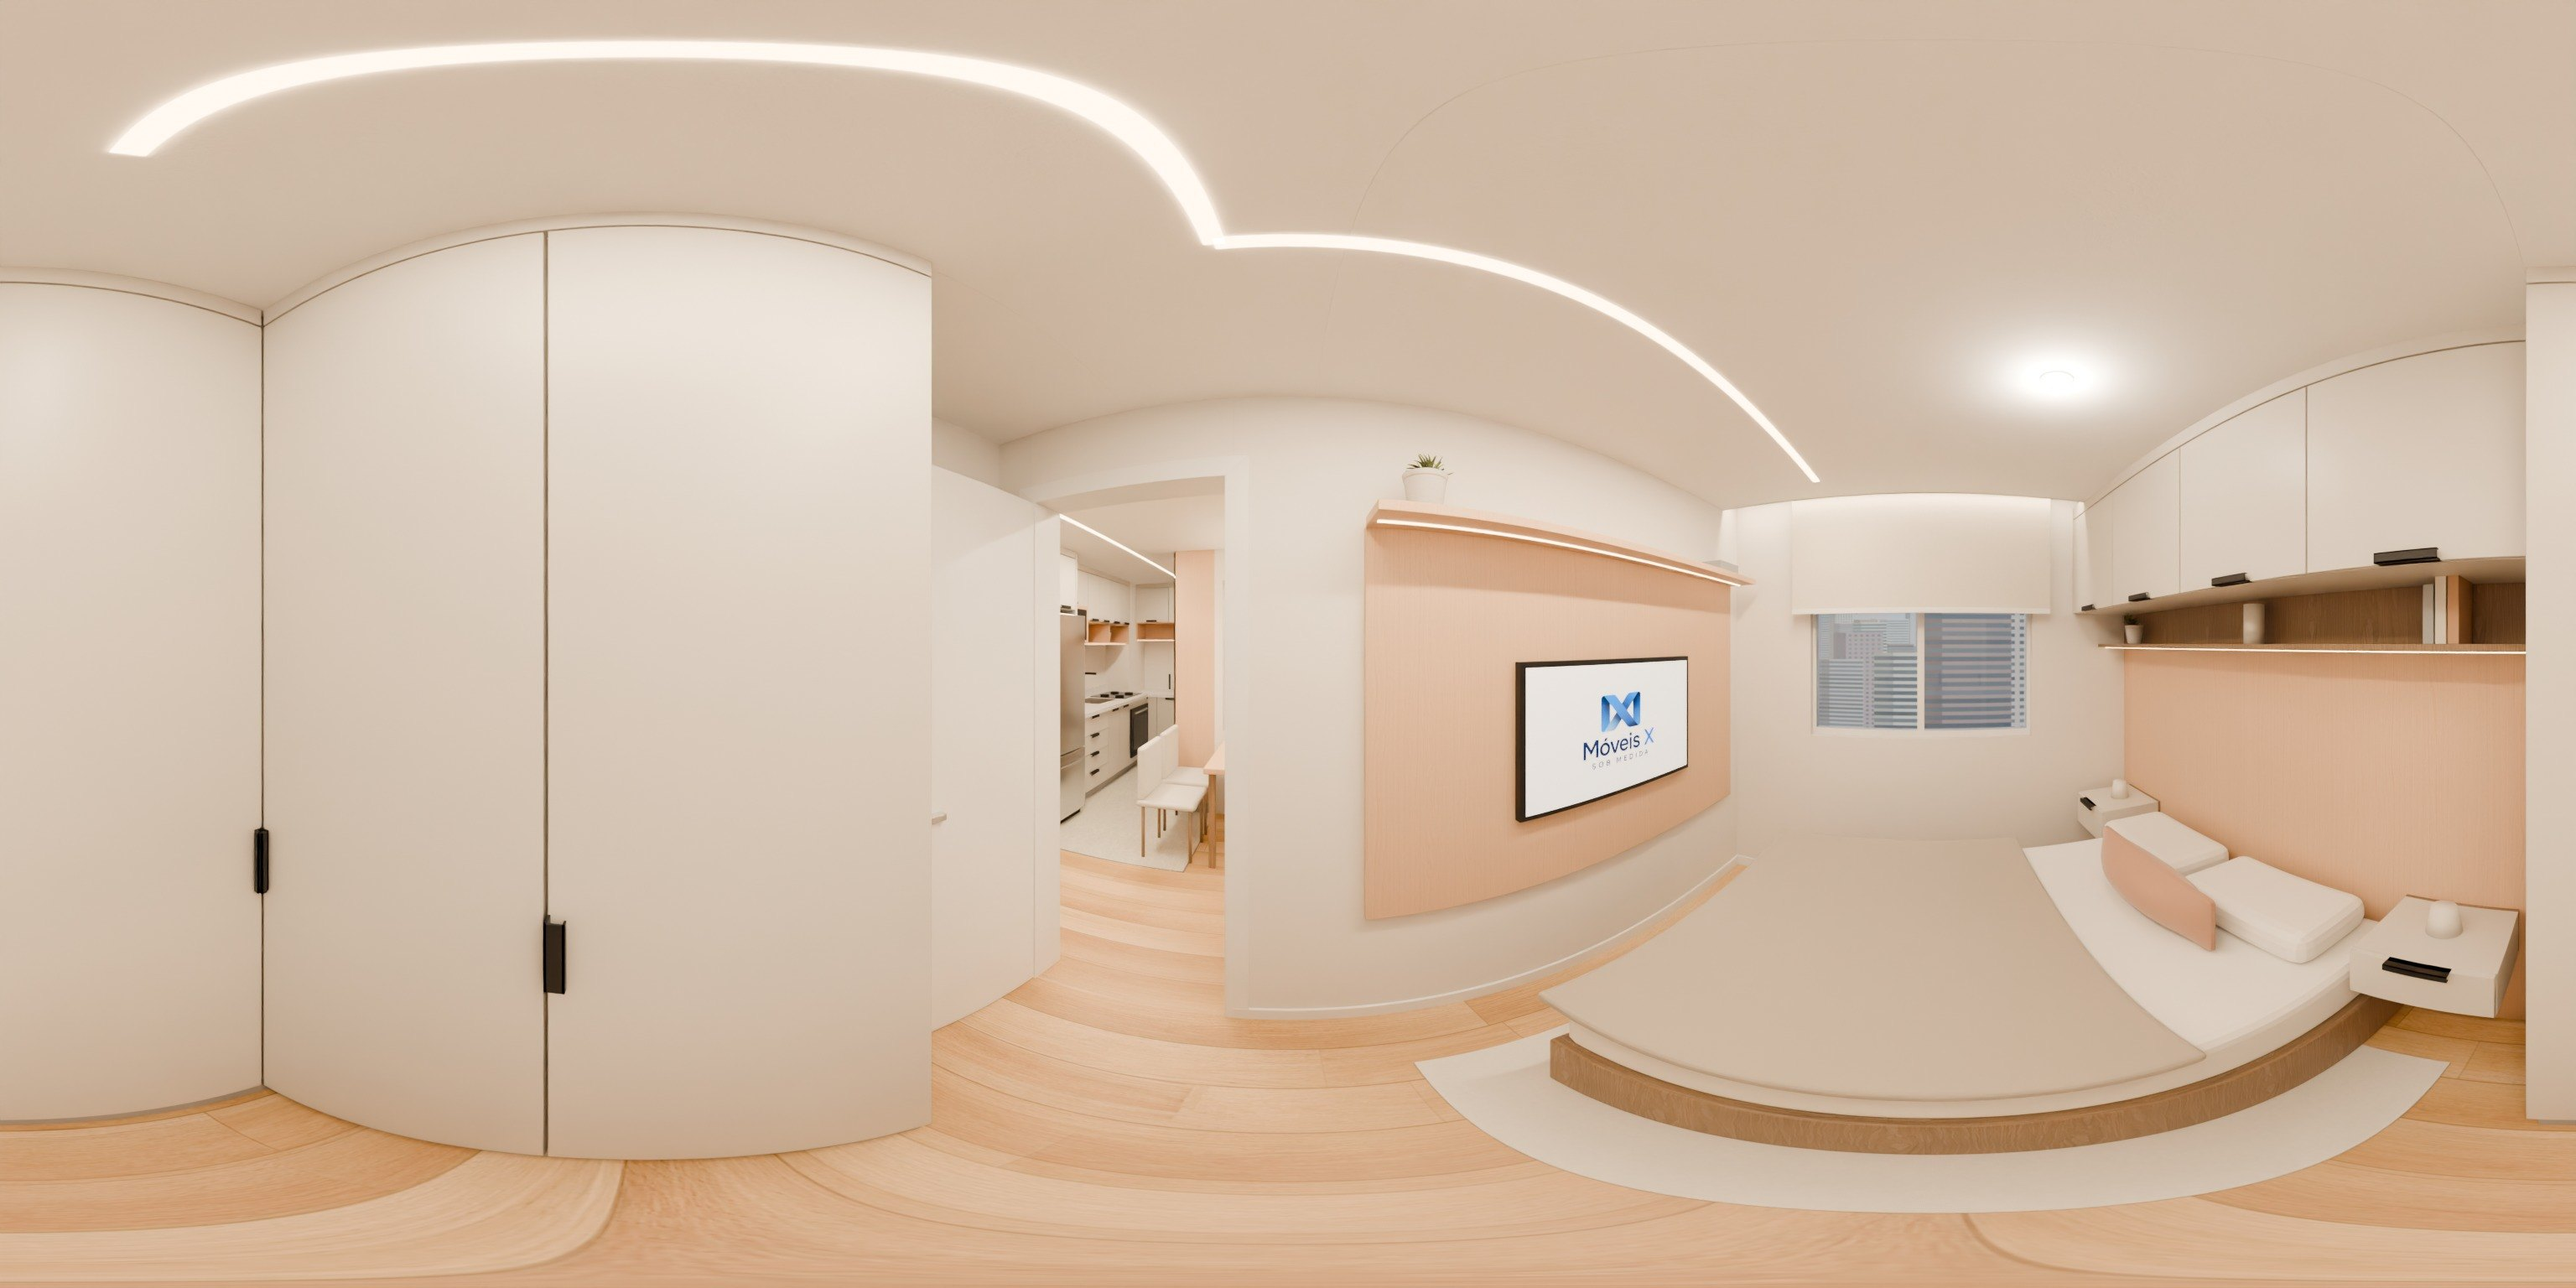
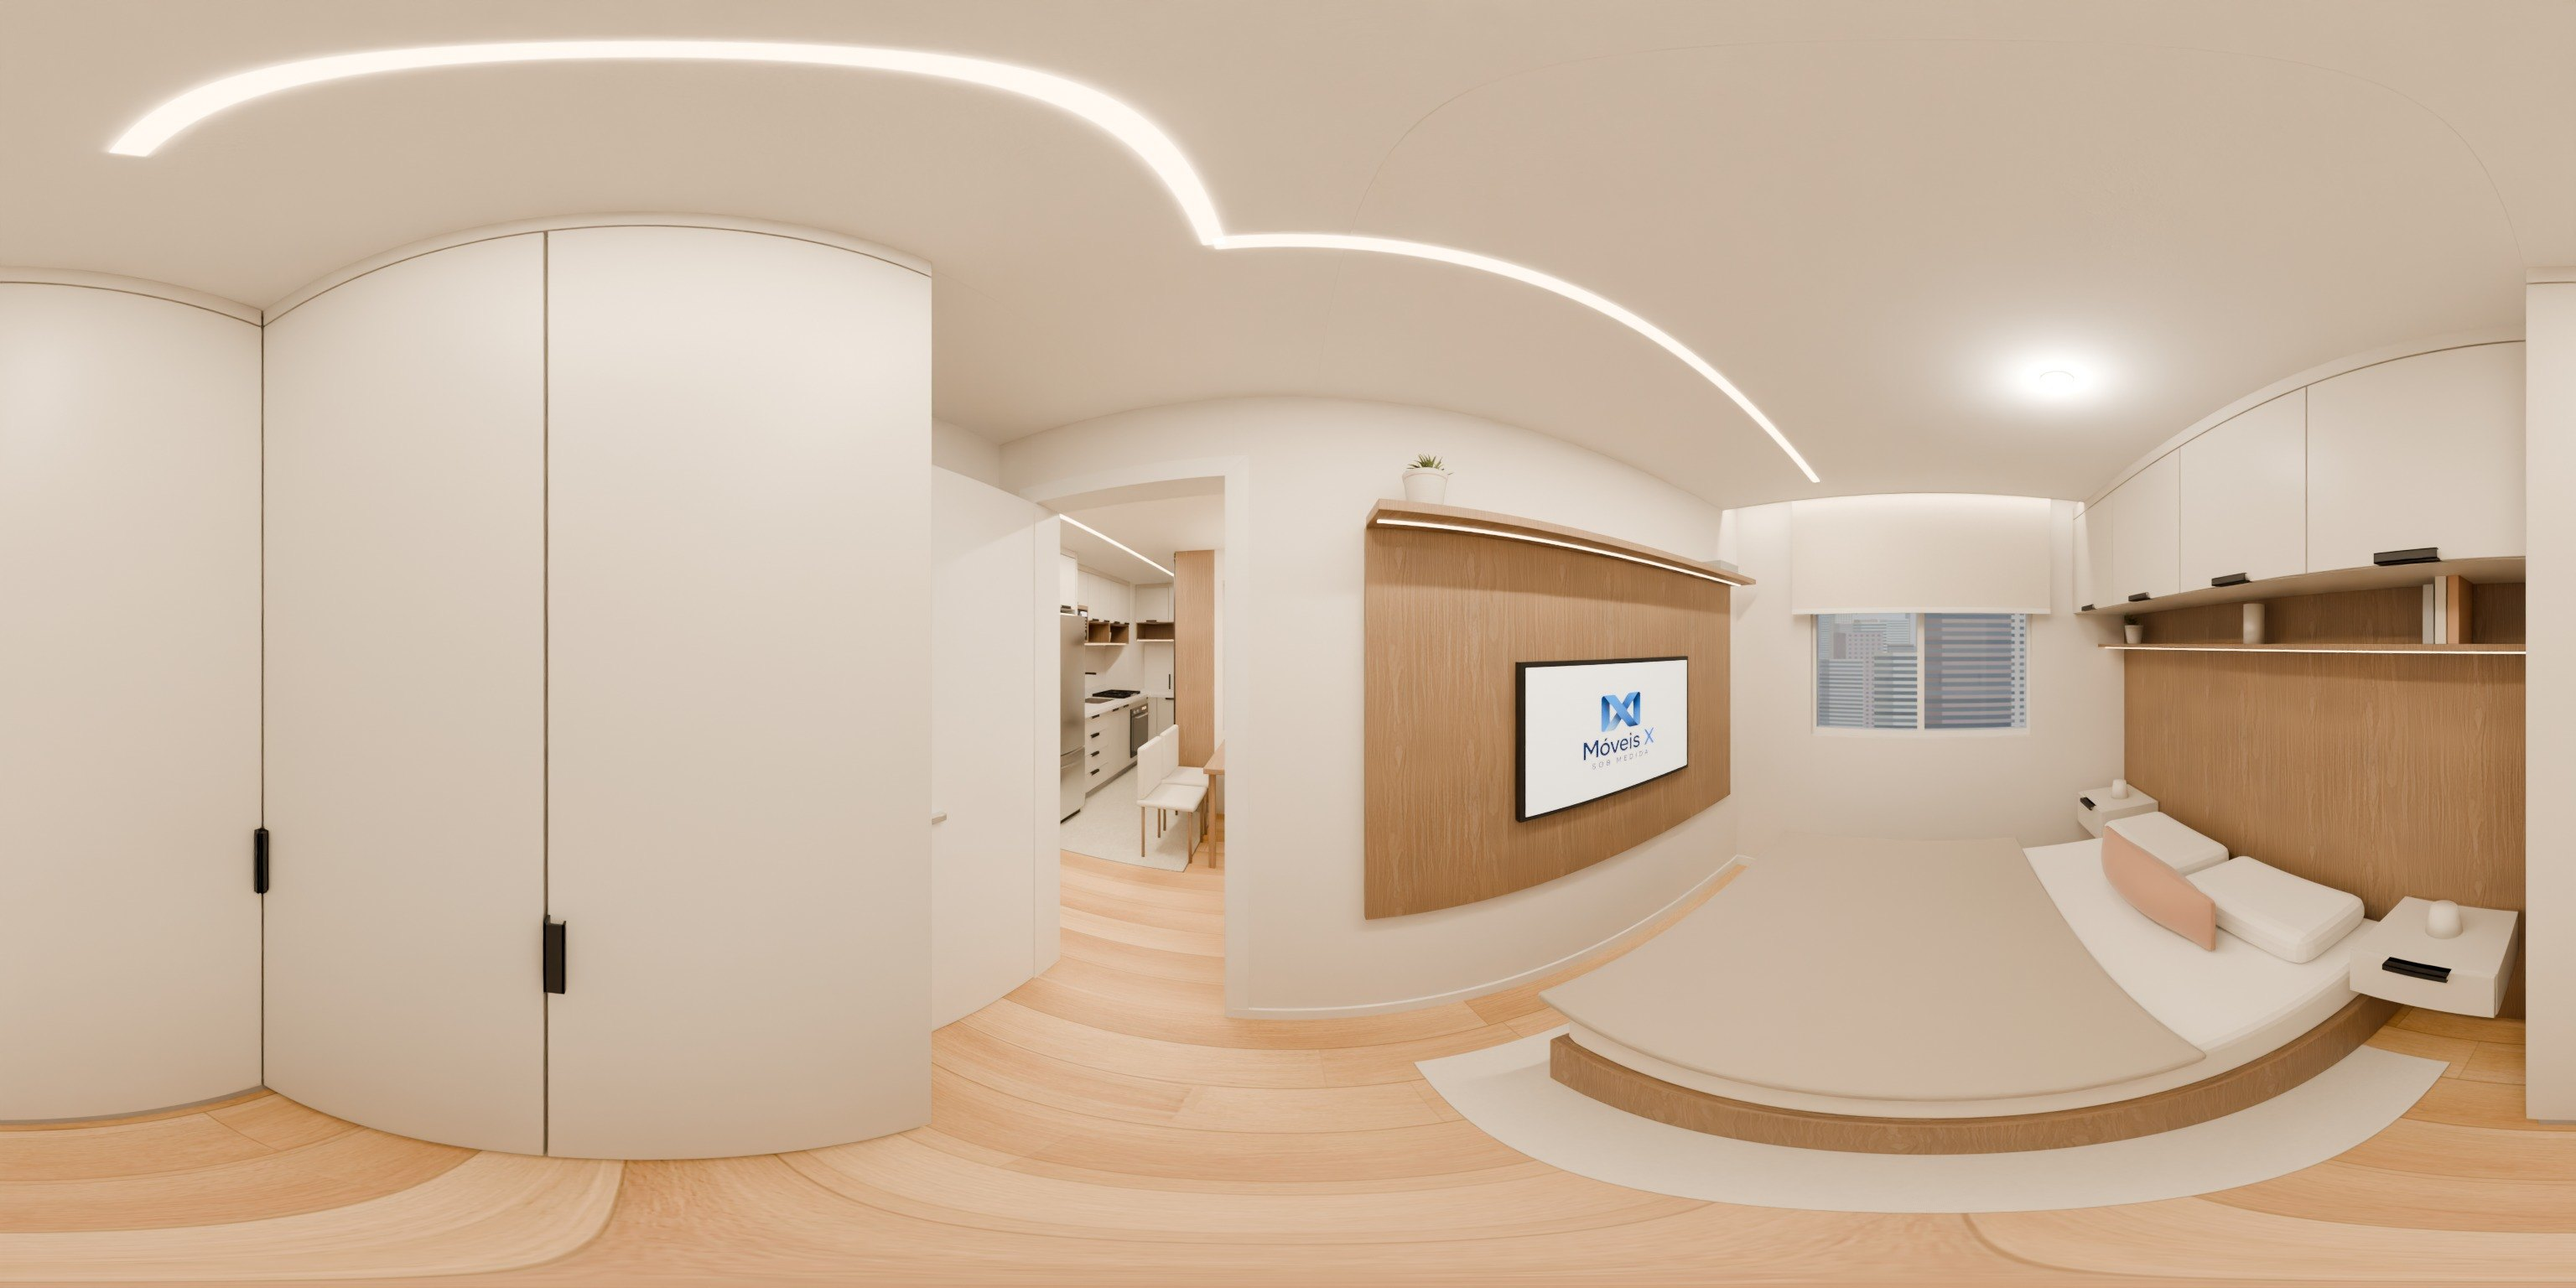
360: novas fotos com carvalho, nicho, cristaleira, cadeira, teclado e eletros atualizados
Claude-Session: https://claude.ai/code/session_01TCwC85nDjNHJiKaGTNL9QG

Changed region(s): [[0.8125, 0.5, 1.0, 0.8125], [0.5312, 0.375, 0.6875, 0.7188], [0.4062, 0.4062, 0.5, 0.5938]]

diff --git a/360/index.html b/360/index.html
@@ -48,11 +48,11 @@ nav button:focus-visible{outline:2px solid var(--brand);outline-offset:2px}
 <script>
 // posição de cada foto 360 na planta (m) e portas para onde as setas apontam
 const ROOMS=[
- {name:"Sala",img:"sala.jpg?v=4",p:[3.55,-3.3],go:[["Cozinha",1,[4.1,-1.7]],["Dormitório 02",3,[4.74,-3.04]],["Dormitório 01",2,[2.42,-1.9]],["Banheiro",4,[2.6,-0.75]]]},
- {name:"Cozinha",img:"cozinha.jpg?v=4",p:[4.3,-1.05],go:[["Sala",0,[3.6,-3.0]],["Banheiro",4,[2.6,-0.75]]]},
- {name:"Dormitório 01",img:"dormitorio_01.jpg?v=4",p:[1.2,-2.4],go:[["Sala",0,[2.42,-1.9]]]},
- {name:"Dormitório 02",img:"dormitorio_02.jpg?v=4",p:[5.7,-3.1],go:[["Sala",0,[4.74,-3.04]]]},
- {name:"Banheiro",img:"banheiro.jpg?v=4",p:[1.75,-0.75],look:[0.45,-0.65],go:[["Cozinha",1,[2.6,-0.75]]]}];
+ {name:"Sala",img:"sala.jpg?v=5",p:[3.55,-3.3],go:[["Cozinha",1,[4.1,-1.7]],["Dormitório 02",3,[4.74,-3.04]],["Dormitório 01",2,[2.42,-1.9]],["Banheiro",4,[2.6,-0.75]]]},
+ {name:"Cozinha",img:"cozinha.jpg?v=5",p:[4.3,-1.05],go:[["Sala",0,[3.6,-3.0]],["Banheiro",4,[2.6,-0.75]]]},
+ {name:"Dormitório 01",img:"dormitorio_01.jpg?v=5",p:[1.2,-2.4],go:[["Sala",0,[2.42,-1.9]]]},
+ {name:"Dormitório 02",img:"dormitorio_02.jpg?v=5",p:[5.7,-3.1],go:[["Sala",0,[4.74,-3.04]]]},
+ {name:"Banheiro",img:"banheiro.jpg?v=5",p:[1.75,-0.75],look:[0.45,-0.65],go:[["Cozinha",1,[2.6,-0.75]]]}];
 const view=document.getElementById('view'),hint=document.getElementById('hint'),nav=document.getElementById('rooms');
 const renderer=new THREE.WebGLRenderer({antialias:true});renderer.setPixelRatio(Math.min(devicePixelRatio,2));
 view.prepend(renderer.domElement);renderer.outputEncoding=THREE.sRGBEncoding;

diff --git a/index.html b/index.html
@@ -398,7 +398,7 @@ html.m .v360 small{font-size:12px}
     <h1>Apartamento<br><em>Phelipe</em></h1>
     <div class="rule"></div>
     <p>NOW Residence · Carapicuíba · SP</p>
-    <a class="v360" href="360/?v=5"><i>360°</i><span>Entrar no apartamento<small>Visite cada ambiente por dentro</small></span></a>
+    <a class="v360" href="360/?v=6"><i>360°</i><span>Entrar no apartamento<small>Visite cada ambiente por dentro</small></span></a>
   </div>
   <div class="cv-meta"><div><b>Cliente</b>Phelipe</div><div><b>Projeto</b>Daniel · Móveis X</div><div><b>Data</b>Outubro 2026</div></div>
 </div></section><section class="page concept">
@@ -971,6 +971,6 @@ html.m .v360 small{font-size:12px}
 <path d="M240 210 C262 188 284 178 297 176" fill="none" stroke="#ffffff" stroke-width="0.6"/>
 </svg>
 <div class="c3-txt"><img src="img/ecf70b03e1.png" alt="Móveis X"><h2>Feito sob medida<br><em>para o seu jeito de viver.</em></h2><div class="rule"></div>
-<p>Projeto de marcenaria · Apartamento Phelipe · NOW Residence</p><a class="v360" href="360/?v=5"><i>360°</i><span>Ver o apartamento em 360°<small>Sala, cozinha, quartos e banheiro</small></span></a></div>
+<p>Projeto de marcenaria · Apartamento Phelipe · NOW Residence</p><a class="v360" href="360/?v=6"><i>360°</i><span>Ver o apartamento em 360°<small>Sala, cozinha, quartos e banheiro</small></span></a></div>
 <div class="c3-script">Do projeto<br>à realidade</div></section>
 </body></html>
